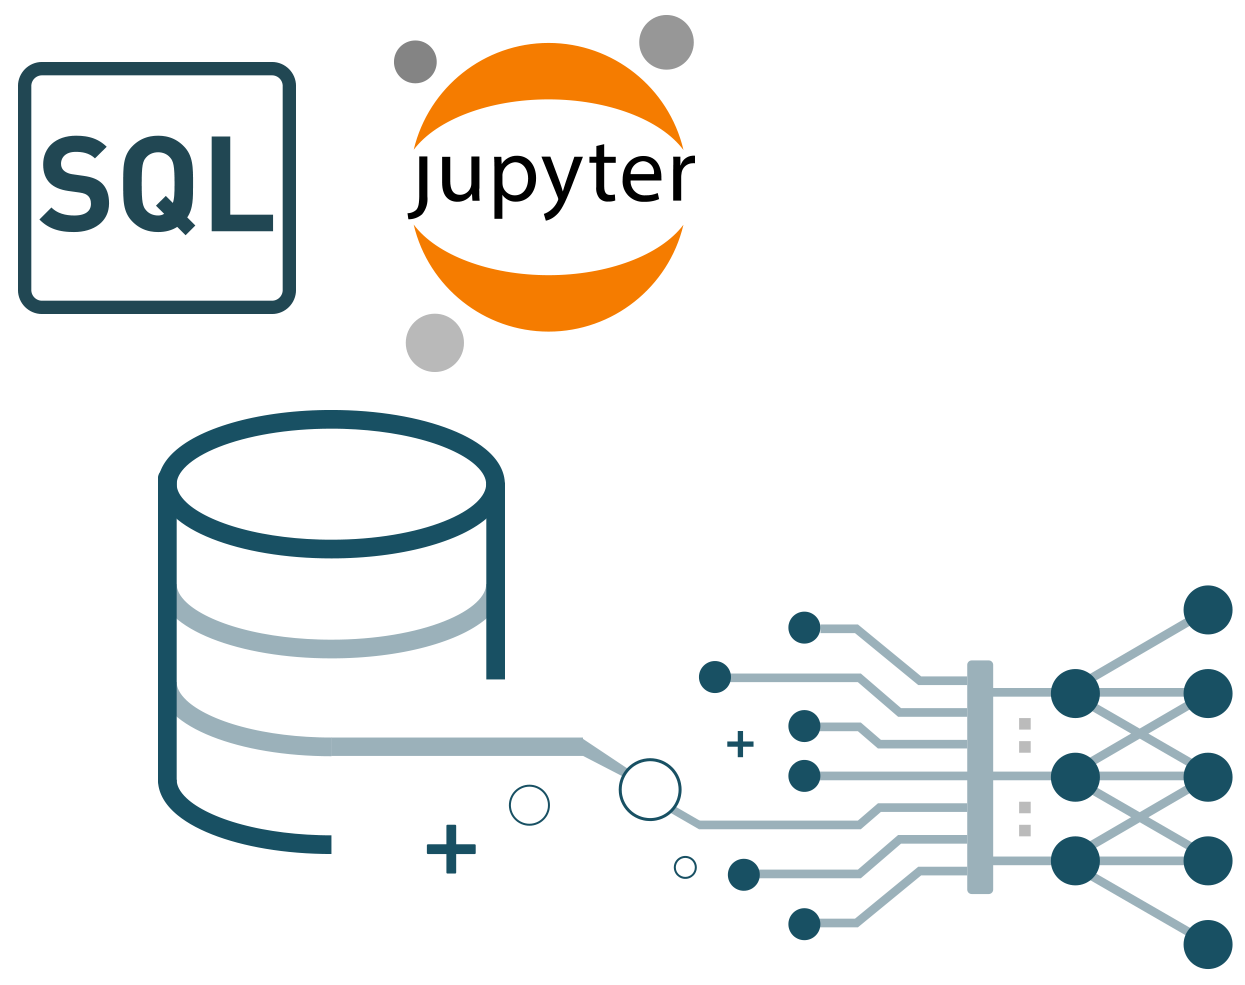
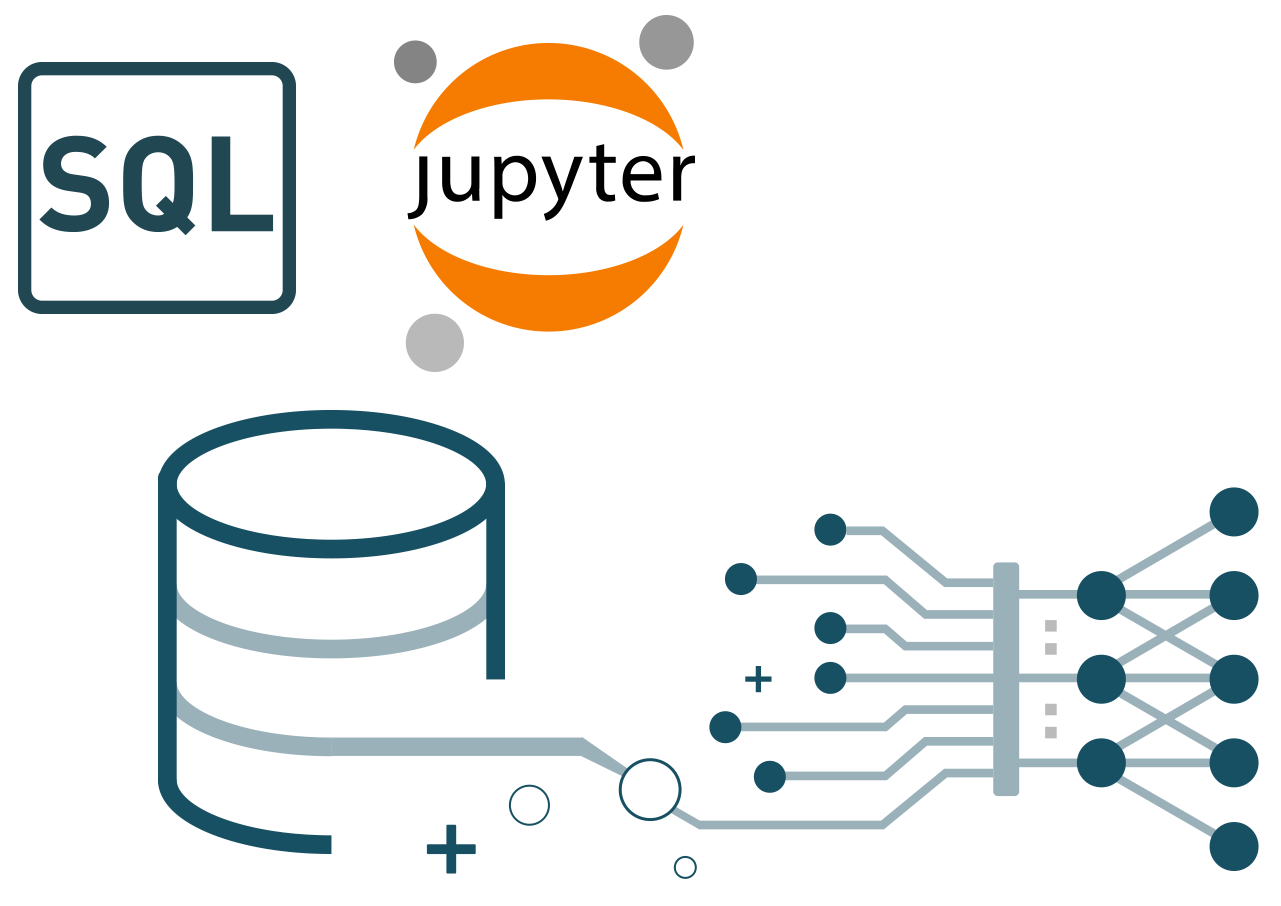
update: fix pic height.

Changed region(s): [[0.1221, 0.0, 1.0, 0.989], [0.0, 0.0618, 0.2442, 0.3709], [0.3968, 0.8653, 0.4273, 0.9272]]

diff --git a/index.html b/index.html
@@ -122,7 +122,7 @@ body_class: landing
                         Collaborate with teammates to access, modify and train data.
                         All the team members share the same data repository with access control, immediate visibility after one modifies the data.
                     </p>
-                    <img src="/assets/images/landing/feature/2-ssot_trans_l.png">
+                    <img src="/assets/images/landing/feature/4-ssot_trans_l.png">
                 </article>
                 <article>
                     <h2>Faster data injection, querying and model learning</h2>

diff --git a/_sass/landing/base.scss b/_sass/landing/base.scss
@@ -392,7 +392,7 @@ body.landing {
             }
             &:nth-child(5) img {
                 width: 80%;
-                margin-top: rem(0);
+                margin-top: rem(20);
                 height: 66%;
             }
             &:nth-child(6) img {
